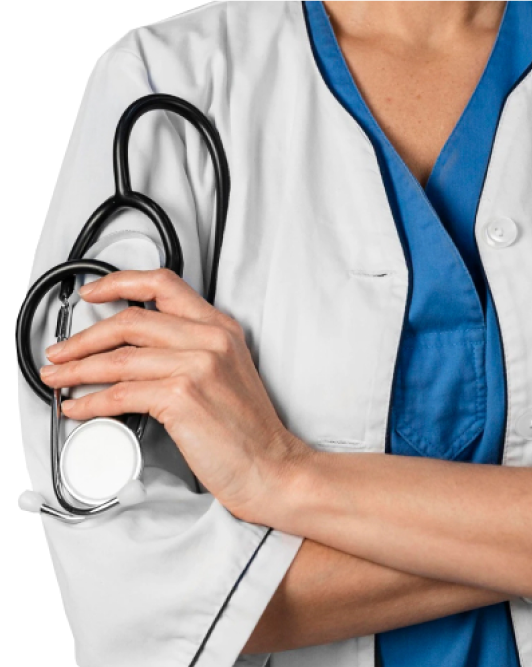
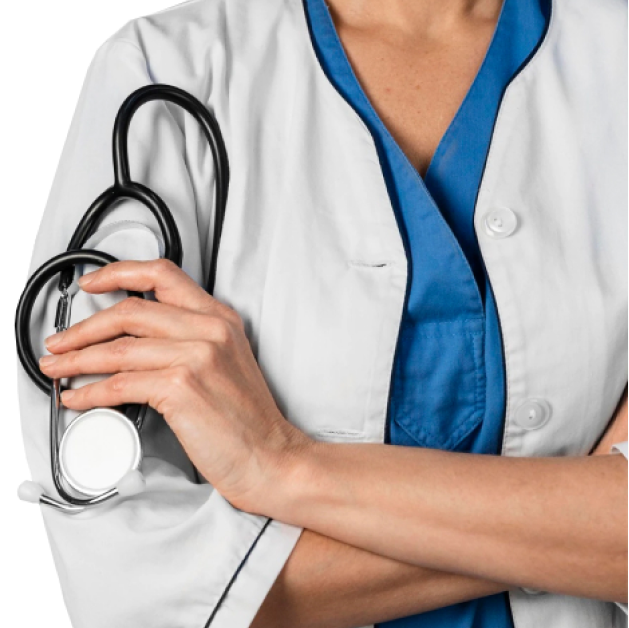
cambios en el hero

diff --git a/components/Hero/Hero.module.scss b/components/Hero/Hero.module.scss
@@ -32,8 +32,8 @@
 
         img{
             align-self: center;
-            width: 30vw;
-            height: 100vh;
+            width: 100vh;
+            height:100vh;
             margin: 110px 0px 0px 0px;
         }
     }
